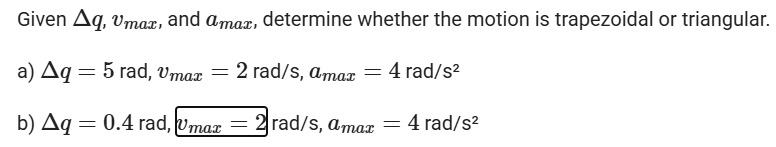
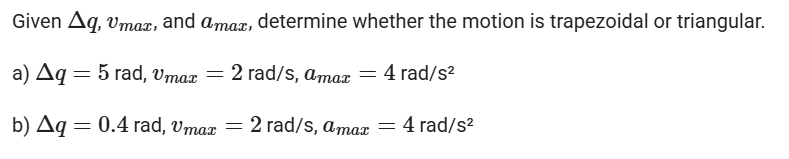
13

Changed region(s): [[0.0, 0.0544, 0.9897, 0.2177], [0.0, 0.7075, 0.6186, 0.9524], [0.0, 0.381, 0.6186, 0.5714]]

diff --git a/docs/trajectory_planning.md b/docs/trajectory_planning.md
@@ -5,6 +5,26 @@ Given a position graph, identify: where velocity is zero, where velocity is maxi
 
 <img src="../recursos/imgs/8.1.png" alt="Diagram" width="600">
 
+For this exercise, keep in mind that:
+
+Speed 0 =  where the graph is horizontal
+
+Maximum speed =  where the slope is steepest
+
+Positive acceleration = when the slope increases 
+(upward curve)
+
+Negative acceleration = when the slope decreases (downward curve)
+
+### Point analysis:
+
+Zero velocity: A, E, G.
+
+Maximum velocity: D
+
+Positive acceleration: B, C.
+
+negative acceleration: F
 
 
 ## Exercise 2
@@ -13,10 +33,21 @@ Given a trapezoidal velocity graph, compute total displacement from the area und
 
 <img src="../recursos/imgs/8.2.png" alt="Diagram" width="600">
 
+### Formula:
+Δq = ½ (ta)(vmax)+(ta)(vmax) + ½ (ta)(vmax)
+
+### Procedure:
+
+Δq = ½ (0.5)(0.8) + (2)(0.8) + ½  (0.5)(0.8)
+
+Δq = 2 rad
 
 ## Exercise 3
 
 <img src="../recursos/imgs/8.3.png" alt="Diagram" width="600">
+
+### A)
+
 
 ## Exercise 4
 
@@ -27,3 +58,8 @@ Sketch the position graph corresponding to a given velocity graph.
 ## Exercise 5
 
 <img src="../recursos/imgs/8.5.png" alt="Diagram" width="600">
+
+
+## Exercise 6
+
+<img src="../recursos/imgs/8.6.png" alt="Diagram" width="600">
